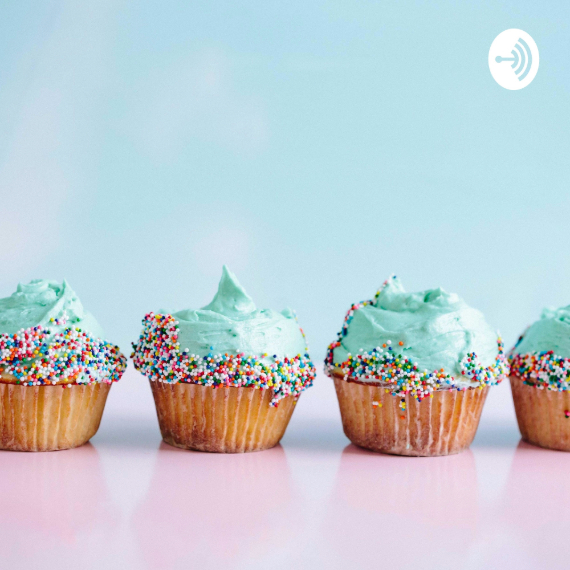
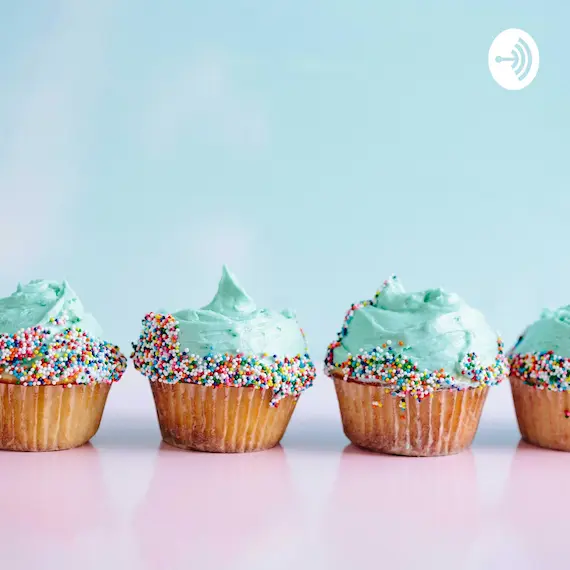
Changed images from lossless to not lossless to save space.

Changed region(s): [[0.0, 0.5368, 1.0, 0.7158], [0.5965, 0.5368, 0.6263, 0.5667]]

diff --git a/page2.html b/page2.html
@@ -3,7 +3,8 @@
 
 <head>
 	<meta charset="utf-8">
-	<meta name="keywords" content="seo, google, website, internet, web design, design agency, design agency, design agency, design agency, design agency, design agency, logo design atlanta">
+	<meta name="keywords"
+		content="freelance, web design, design agency, logo design atlanta">
 	<meta name="description" content="Here's the contact form to hire me as your web designer.">
 	<meta name="viewport" content="width=device-width, initial-scale=1.0, viewport-fit=cover">
 	<link rel="shortcut icon" type="image/png" href="favicon.jpg">
@@ -19,7 +20,7 @@
 	<script src="./js/blocs.js"></script>
 	<script src="./js/jqBootstrapValidation.js"></script>
 	<script src="./js/formHandler.js"></script>
-	<title>page2</title>
+	<title>Contact</title>
 
 
 	<!-- Analytics -->
